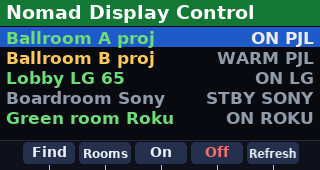
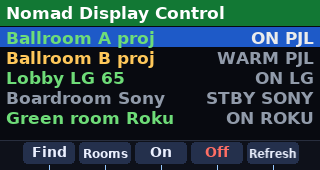
Nomad Display Control 0.4.0: installer/service menus, offline displays in Find
Service menus open only, behind a warning: LG factorywin ezAdjust/inStart,
Sony hotel and service key sequences, Samsung hotel (Mute 1 1 9 OK), Roku
secret screens; then the Remote screen to navigate. Find displays keeps
saved displays that did not answer as OFFLINE with Wake-on-LAN on key 5
and a sleeping-TV hint instead of 'Nothing found'.

Claude-Session: https://claude.ai/code/session_01GkgDxcWYarq6mnGrjPFuqJ

Changed region(s): [[0.0, 0.0294, 0.8125, 0.1471]]

diff --git a/display-control/nomaddisp/app.py b/display-control/nomaddisp/app.py
@@ -318,6 +318,8 @@ class DisplayScreen(List):
             out.append(("Input", lambda: choose_input(app, d), lambda: str(st.get("input") or "")[:12]))
         if "remote" in caps:
             out.append(("Remote (menu, arrows)", lambda: app.push(RemoteScreen(app, d)), "", L.OK))
+        if self.drv.service_menus():
+            out.append(("Installer / service menus", lambda: service_menus(app, d), "", L.WARN))
         if "volume" in caps:
             out.append(("Volume up", lambda: app.do(d, "vol", 1, "Volume up"),
                         lambda: "" if st.get("volume") is None else str(st["volume"])))
@@ -484,6 +486,23 @@ def pair(app, d):
                      yes="OK pair", no="ESC back"))
 
 
+def service_menus(app, d):
+    """Hidden installer / service menus, behind a warning. Only opens them."""
+    menus = DRIVERS[d.kind](d).service_menus()
+
+    def opened(r):
+        app.push(RemoteScreen(app, d))      # drive the menu with the TV's remote
+        app.flash(r, L.WARN, 10)
+
+    def pick():
+        app.push(Pick(app, "Service menus", [(m[0], f"{m[1]}") for m in menus],
+                      lambda v: app.task(d.name, "Opening menu", lambda: ops.run(d, "svcmenu", v), opened)))
+    app.push(Confirm(app, "Warning", "Service and installer menus can change panel, power and firmware "
+                     "settings, break picture calibration and void the warranty. This only opens the menu; "
+                     "change nothing you don't know. Back/Exit closes it.", pick,
+                     yes="OK I understand", no="ESC back"))
+
+
 def check_prompt(app):
     from . import check
     from .settings_check import valid_ip
@@ -639,31 +658,47 @@ def find_displays(app):
     busy["s"] = app.stack[-1]
 
 
+SLEEP_HINT = ("TVs that are off sleep their network. Turn on: LG 'Turn on via Wi-Fi' (Quick Start+), "
+              "Samsung 'Network standby' / 'Power on with mobile', Sony 'Remote start'. Then Wake works.")
+
+
 class Found(List):
     title = "Found displays"
-    help = ("Displays found on this network. OK adds one (you can name it and give it a room). "
-            "Key 4 adds every new one at once. Projectors with a PJLink password show (password): "
-            "type it when you add them.")
+    help = ("Displays found on this network, then saved ones that did not answer (OFFLINE: off or asleep). "
+            "OK adds a new one, or opens a saved one. Key 4 adds every new one, key 5 wakes the highlighted "
+            "display by Wake-on-LAN. " + SLEEP_HINT)
 
     def __init__(self, app, found: list[Display]):
         super().__init__(app)
         self.found = found
+        hit = {(d.host, d.kind) for d in found}
+        self.offline = [d for d in app.displays if (d.host, d.kind) not in hit]
 
     def saved(self, d) -> bool:
         return any(x.host == d.host and x.kind == d.kind for x in self.app.displays)
+
+    def all(self) -> list:
+        return list(self.found) + self.offline
 
     def header(self):
         f = self.app.flash_line()
         if f:
             return [f]
         if not self.found:
-            return [("Nothing found. Same network? Add by IP", L.WARN)]
+            return [("No display answered. TV off? Its network sleeps", L.WARN)]
         return []
 
     def items(self):
-        return [(f"{d.name}"[:22], (lambda d=d: self.add(d)),
-                 lambda d=d: ("saved " if self.saved(d) else "") + KIND_SHORT.get(d.kind, ""),
-                 lambda d=d: L.DIM if self.saved(d) else L.FG) for d in self.found]
+        out = [(f"{d.name}"[:22], (lambda d=d: self.add(d)),
+                lambda d=d: ("saved " if self.saved(d) else "") + KIND_SHORT.get(d.kind, ""),
+                lambda d=d: L.DIM if self.saved(d) else L.FG) for d in self.found]
+        out += [(f"{d.name}"[:20], (lambda d=d: self.app.push(DisplayScreen(self.app, d))),
+                 "OFFLINE", L.WARN) for d in self.offline]
+        return out
+
+    def current(self):
+        a = self.all()
+        return a[self.sel] if 0 <= self.sel < len(a) else None
 
     def add(self, d):
         if self.saved(d):
@@ -683,8 +718,20 @@ class Found(List):
         self.app.flash(f"Added {n} display{'s' if n != 1 else ''}", L.OK)
         self.app.poll_all()
 
+    def wake(self):
+        d = self.current()
+        if not d:
+            return
+        if not d.mac:
+            self.app.flash(f"No MAC saved for {d.name}", L.BAD, 6)
+            return
+        self.app.do(d, "wol", label=f"Waking {d.name}")
+
     def softkeys(self):
-        return [("Add all", self.add_all), None, None, None, ("Rescan", lambda: (self.app.pop(self), find_displays(self.app)))]
+        d = self.current()
+        return [("Add all", self.add_all) if any(not self.saved(x) for x in self.found) else None,
+                ("Wake", self.wake) if d and d.mac else None, None, None,
+                ("Rescan", lambda: (self.app.pop(self), find_displays(self.app)))]
 
 
 # ---- rooms -----------------------------------------------------------------

diff --git a/display-control/tests/test_basic.py b/display-control/tests/test_basic.py
@@ -220,6 +220,11 @@ class SonyRoku(unittest.TestCase):
         self.assertEqual(Handler.calls[-1][1], "/keypress/PowerOn")
         r.set_input("launch:tvinput.hdmi1")
         self.assertEqual(Handler.calls[-1][1], "/launch/tvinput.hdmi1")
+        n = len(Handler.calls)
+        r.open_service_menu("wifi")
+        self.assertEqual([c[1] for c in Handler.calls[n:]],
+                         ["/keypress/Home"] * 5 + ["/keypress/Up", "/keypress/Right", "/keypress/Down",
+                                                   "/keypress/Left", "/keypress/Up"])
         r.remote("ok")
         self.assertEqual(Handler.calls[-1][1], "/keypress/Select")
         from nomaddisp.base import REMOTE_BUTTONS
@@ -326,6 +331,12 @@ class LGTest(unittest.TestCase):
             self.assertEqual(lg.mute(), "Muted")
             self.assertEqual(seen[-1]["payload"], {"mute": True})
             self.assertEqual(lg.message("hi"), "Message shown")
+            self.assertIn("0413", lg.open_service_menu("inStart"))
+            launch = [m for m in seen if m.get("uri") == "ssap://system.launcher/launch"][-1]
+            self.assertEqual(launch["payload"], {"id": "com.webos.app.factorywin",
+                                                 "params": {"id": "executeFactory", "irKey": "inStart"}})
+            with self.assertRaises(DisplayError):
+                lg.open_service_menu("inStop")      # factory reset is never offered
             lg.remote("down")
             lg.remote("ok")
             import time
@@ -389,6 +400,17 @@ class Misc(unittest.TestCase):
         app.stack = [scr]
         app.draw()
         self.assertEqual(scr.keybar()[0], "Add")
+
+    def test_found_keeps_offline(self):
+        from nomaddisp import lcd as L
+        from nomaddisp.app import App, Found
+        app = App(L.Panel(headless=True), None)
+        app.displays = [Display("LG TV", "lg", "10.0.0.29", mac="30:34:db:6e:bc:84", id="x")]
+        f = Found(app, [])
+        rows, sel = f.rows()
+        self.assertIn("No display answered", rows[0][0])
+        self.assertEqual(rows[1][2], "OFFLINE")
+        self.assertEqual(f.keybar()[1], "Wake")
 
     def test_screens(self):
         from nomaddisp.demo import render_screens

diff --git a/display-control/nomaddisp/sony.py b/display-control/nomaddisp/sony.py
@@ -134,9 +134,28 @@ class Sony(Driver):
         return Sony._codes[key]
 
     def remote(self, button):
-        codes = self.ircc_codes()
         name = self.REMOTE[button]
-        code = codes.get(name) or codes.get(self.FALLBACK.get(name, ""))
+        self.ircc(name)
+        return button
+
+    MENUS = [("hotel", "Hotel / Pro mode menu", "Display, Mute, Vol+, Home"),
+             ("service", "Service menu (experimental)", "Display, 5, Vol+, Power. Classic models need standby")]
+    SEQ = {"hotel": ["Display", "Mute", "VolumeUp", "Home"], "service": ["Display", "Num5", "VolumeUp", "TvPower"]}
+
+    def service_menus(self):
+        return list(self.MENUS)
+
+    def open_service_menu(self, menu_id):
+        import time
+        for name in self.SEQ[menu_id]:
+            self.ircc(name)
+            time.sleep(0.5)
+        return "Keys sent. " + dict((m[0], m[2]) for m in self.MENUS)[menu_id]
+
+    def ircc(self, name):
+        codes = self.ircc_codes()
+        alt = {"TvPower": "Power", "Num5": "5"}
+        code = codes.get(name) or codes.get(self.FALLBACK.get(name, "")) or codes.get(alt.get(name, ""))
         if not code:
             raise DisplayError(f"TV has no {name} button over IP")
         body = ('<?xml version="1.0"?><s:Envelope xmlns:s="http://schemas.xmlsoap.org/soap/envelope/" '
@@ -155,7 +174,6 @@ class Sony(Driver):
             raise DisplayError("Wrong or missing pre-shared key" if e.code in (401, 403) else f"TV error HTTP {e.code}")
         except OSError as e:
             raise DisplayError(f"No answer from {self.d.host} ({e.__class__.__name__})")
-        return button
 
     def info(self):
         out = super().info()

diff --git a/display-control/nomaddisp/lgwebos.py b/display-control/nomaddisp/lgwebos.py
@@ -224,6 +224,21 @@ class LGWebOS(Driver):
         if ws:
             ws.close()
 
+    # The TV's factory app; only the two menu entry points are offered (the
+    # app's other modes include a factory reset and test patterns).
+    MENUS = [("ezAdjust", "Service menu 1 (EZ-Adjust)", "Password if asked: 0413"),
+             ("inStart", "Service menu 2 (In-Start)", "Password if asked: 0413")]
+
+    def service_menus(self):
+        return list(self.MENUS)
+
+    def open_service_menu(self, menu_id):
+        if menu_id not in dict((m[0], m) for m in self.MENUS):
+            raise DisplayError("Unknown menu")
+        self.call("ssap://system.launcher/launch", {"id": "com.webos.app.factorywin",
+                                                    "params": {"id": "executeFactory", "irKey": menu_id}})
+        return "Menu opened. " + dict((m[0], m[2]) for m in self.MENUS)[menu_id]
+
     def message(self, text):
         self.call("ssap://system.notifications/createToast", {"message": text[:60]})
         return "Message shown"

diff --git a/display-control/nomaddisp/samsung.py b/display-control/nomaddisp/samsung.py
@@ -121,6 +121,24 @@ class Samsung(Driver):
         self.keys(self.REMOTE[button])
         return button
 
+    MENUS = [("hotel", "Hotel / hospitality menu (experimental)", "Mute, 1, 1, 9, OK")]
+    SEQ = {"hotel": ["KEY_MUTE", "KEY_1", "KEY_1", "KEY_9", "KEY_ENTER"]}
+
+    def service_menus(self):
+        return list(self.MENUS)
+
+    def open_service_menu(self, menu_id):
+        import time
+        ws = self._connect()
+        try:
+            for k in self.SEQ[menu_id]:
+                ws.send({"method": "ms.remote.control", "params": {
+                    "Cmd": "Click", "DataOfCmd": k, "Option": "false", "TypeOfRemote": "SendRemoteKey"}})
+                time.sleep(0.4)
+        finally:
+            ws.close()
+        return "Keys sent (Mute 1 1 9 OK). Mute again if no menu showed"
+
     def info(self):
         out = super().info()
         a = self.api()

diff --git a/display-control/nomaddisp/roku.py b/display-control/nomaddisp/roku.py
@@ -119,6 +119,21 @@ class Roku(Driver):
         self.key(self.REMOTE[button])
         return button
 
+    MENUS = [("secret", "Platform secret screen", "Home x5, FF x3, Rew x2"),
+             ("wifi", "Wi-Fi secret screen", "Home x5, Up, Right, Down, Left, Up")]
+    SEQ = {"secret": ["Home"] * 5 + ["Fwd"] * 3 + ["Rev"] * 2,
+           "wifi": ["Home"] * 5 + ["Up", "Right", "Down", "Left", "Up"]}
+
+    def service_menus(self):
+        return list(self.MENUS)
+
+    def open_service_menu(self, menu_id):
+        import time
+        for k in self.SEQ[menu_id]:
+            self.key(k)
+            time.sleep(0.35)
+        return "Keys sent. Back or Home closes it"
+
     def info(self):
         out = super().info()
         di = self.device_info()

diff --git a/display-control/nomaddisp/base.py b/display-control/nomaddisp/base.py
@@ -119,6 +119,14 @@ class Driver:
         """Press a remote button (see REMOTE_BUTTONS)."""
         raise DisplayError("No remote control over IP")
 
+    def service_menus(self) -> list[tuple[str, str, str]]:
+        """[(id, label, note)] hidden installer / service menus this TV can
+        open over the network. Opening only; nothing is changed."""
+        return []
+
+    def open_service_menu(self, menu_id: str) -> str:
+        raise DisplayError("No service menus over IP")
+
     def pair(self) -> str:
         """Ask the TV to allow this device (LG / Samsung). Returns text; may
         update self.d.secret, the caller saves it."""

diff --git a/display-control/nomaddisp/ops.py b/display-control/nomaddisp/ops.py
@@ -51,6 +51,10 @@ def run(d: Display, cmd: str, arg=None):
             return drv.info()
         if cmd == "pair":
             return drv.pair()
+        if cmd == "menus":
+            return drv.service_menus()
+        if cmd == "svcmenu":
+            return drv.open_service_menu(str(arg))
         if cmd == "remote":
             return drv.remote(str(arg))
     raise DisplayError(f"Unknown command {cmd}")

diff --git a/display-control/nomaddisp/__init__.py b/display-control/nomaddisp/__init__.py
@@ -1,2 +1,2 @@
 """Nomad Display Control: control TVs and projectors over the network."""
-__version__ = "0.3.0"
+__version__ = "0.4.0"

diff --git a/display-control/README.md b/display-control/README.md
@@ -50,6 +50,24 @@ It also lists other control ports it sees (Telnet, NEC 7142, Epson 3629,
 Panasonic 1024, Christie, Barco, Android TV, Cast) and the MAC for
 Wake-on-LAN. Key 4 adds the display with what was found.
 
+## Installer / service menus
+
+On a display: **Installer / service menus** (after a warning screen). It only
+opens the menu and then switches to the Remote screen so you can move around;
+it never changes a value.
+
+| TV | Menus | How |
+|---|---|---|
+| LG webOS | Service menu 1 (EZ-Adjust), Service menu 2 (In-Start); password 0413 | launches `com.webos.app.factorywin` with `irKey` ezAdjust / inStart (factory reset and test modes are never offered) |
+| Sony | Hotel / Pro mode menu; Service menu (experimental) | IRCC keys Display, Mute, Vol+, Home / Display, 5, Vol+, Power |
+| Samsung | Hotel / hospitality menu (experimental) | remote keys Mute, 1, 1, 9, OK |
+| Roku | Platform secret screen, Wi-Fi secret screen | ECP keys Home x5 + FF x3 + Rew x2 / Home x5 + Up Right Down Left Up |
+
+Find displays also lists saved displays that did not answer as OFFLINE (key 5
+wakes one by Wake-on-LAN): a TV that is off sleeps its network unless LG
+"Turn on via Wi-Fi" (Quick Start+), Samsung "Network standby" or Sony
+"Remote start" is on.
+
 ## Keys (official CardputerZero key spec)
 
 F/X move, OK or C select, Z or ESC back, ESC on the main page quits, hold ESC
